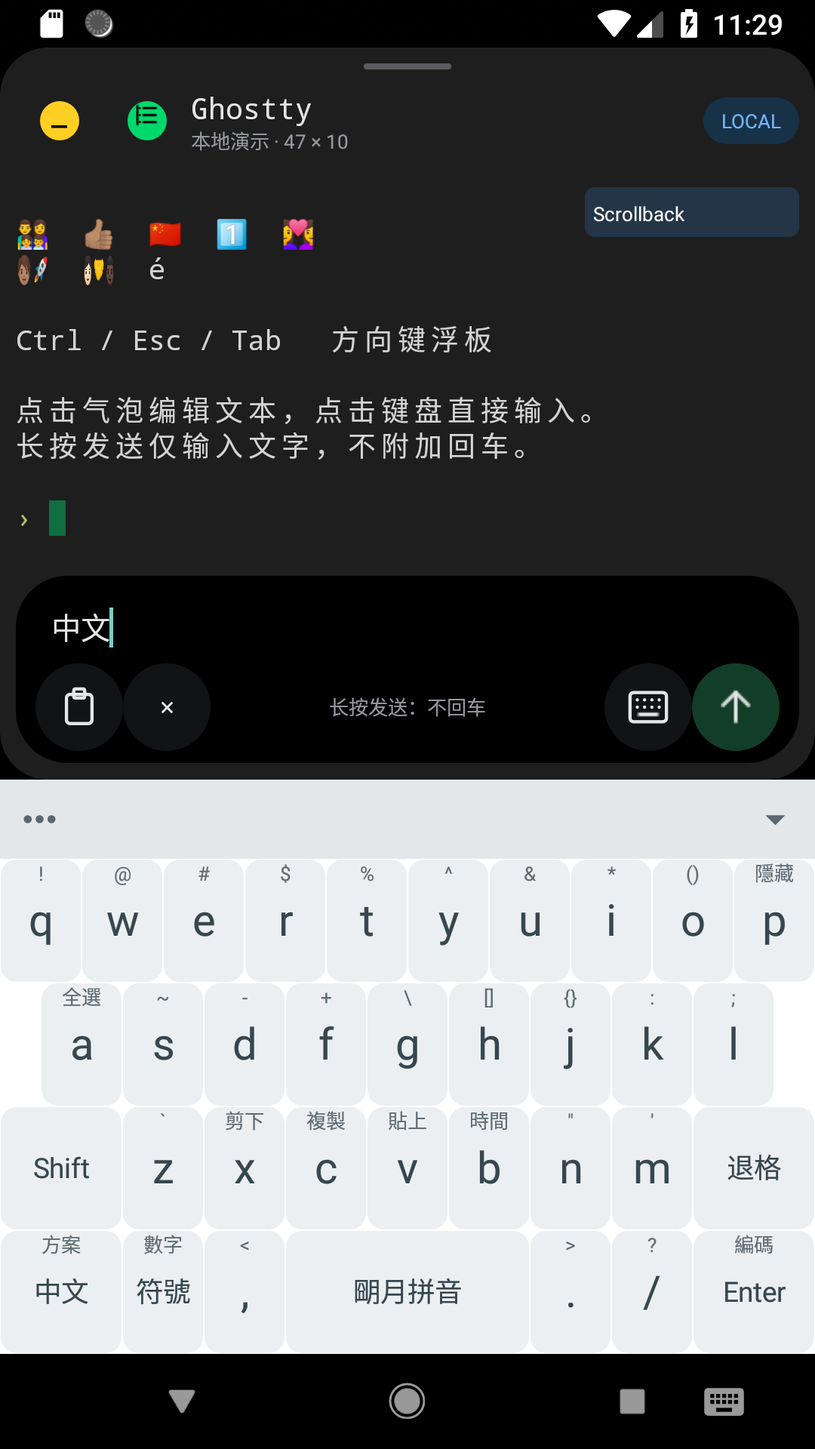
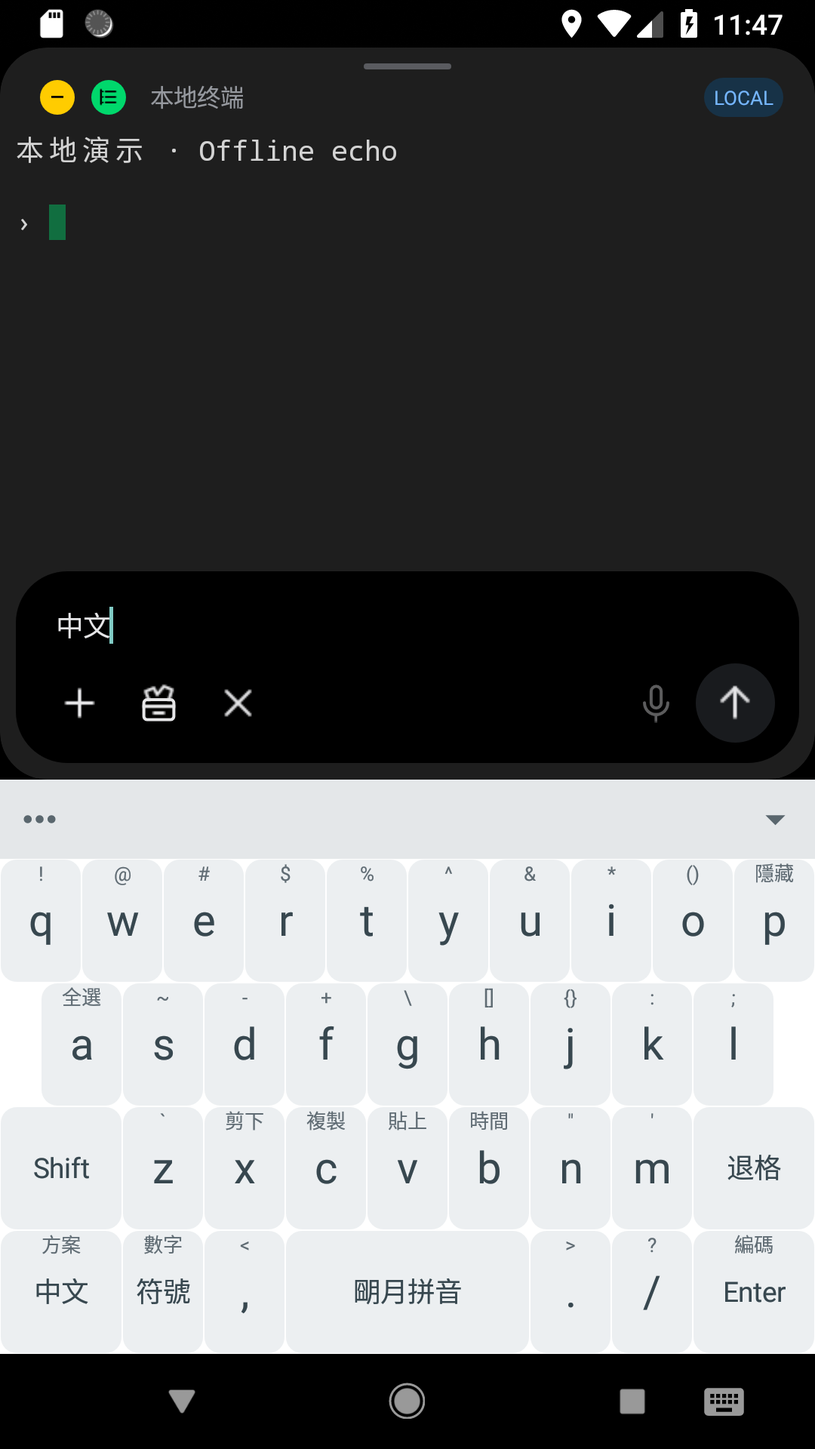
ui: align terminal controls and session layout with Moshi

diff --git a/sample/src/main/java/dev/ghostty/android/sample/MainActivity.java b/sample/src/main/java/dev/ghostty/android/sample/MainActivity.java
@@ -31,7 +31,9 @@ public final class MainActivity extends Activity {
     private ScrollView home;
     private ImageView sessionPreview;
     private android.graphics.Bitmap previewBitmap;
-    private TextView subtitle, ctrlButton, padButton, lockButton;
+    private TextView subtitle, ctrlButton, padButton, lockButton, sendButton;
+    private final java.util.ArrayList<String> draftHistory=new java.util.ArrayList<>();
+    private boolean padPositioned;
     private boolean ctrlArmed, draftMode, imeVisible, minimized, padLocked;
 
     @Override public void onCreate(Bundle state) {
@@ -62,7 +64,8 @@ public final class MainActivity extends Activity {
         terminal.setListener(new TerminalView.Listener() {
             @Override public void onInput(byte[] bytes) { echo(bytes); }
             @Override public void onResize(int columns,int rows) {
-                subtitle.setText("本地演示 · "+columns+" × "+rows);
+                subtitle.setContentDescription("本地终端，"+columns+" 列，"+rows+" 行");
+                if(directInput.hasFocus()||draft.hasFocus())terminal.post(terminal::scrollToBottom);
             }
             @Override public void onSelectionChanged(String text) {
                 selectionBar.setVisibility(text.isEmpty()?View.GONE:View.VISIBLE);
@@ -76,39 +79,38 @@ public final class MainActivity extends Activity {
             imeVisible=root.getRootView().getHeight()-visible.bottom>dp(120);
         });
         viewport.addOnLayoutChangeListener((v,l,t,r,b,ol,ot,or,ob)->clampPad());
-        demo(); root.requestFocus();
+        write("\033]10;#d4d4d4\007\033]11;#1e1e1e\007\033]12;#00d86c\007本地演示 · Offline echo\r\n\r\n› "); root.requestFocus();
     }
 
     private void buildHeader() {
         View grip=new View(this); grip.setBackground(round(0xff5a5b60,3));
         LinearLayout.LayoutParams gripParams=new LinearLayout.LayoutParams(dp(44),dp(3));
         gripParams.gravity=Gravity.CENTER_HORIZONTAL;gripParams.topMargin=dp(8);sheet.addView(grip,gripParams);
-        LinearLayout header=row(); header.setPadding(dp(8),0,dp(8),0);
-        sheet.addView(header,new LinearLayout.LayoutParams(-1,dp(52)));
+        LinearLayout header=row(); header.setPadding(dp(16),0,dp(16),0);
+        sheet.addView(header,new LinearLayout.LayoutParams(-1,dp(28)));
         TextView minimize=key("−","最小化会话",this::minimize); minimize.setTextColor(Color.BLACK);
-        minimize.setTextSize(18);
-        minimize.setBackground(new android.graphics.drawable.InsetDrawable(round(0xffffcf24,12),dp(12)));
-        header.addView(minimize,new LinearLayout.LayoutParams(dp(44),dp(44)));
+        minimize.setTextSize(14);
+        minimize.setBackground(new android.graphics.drawable.InsetDrawable(round(0xffffcc00,9),dp(4)));
+        header.addView(minimize,new LinearLayout.LayoutParams(dp(26),dp(26)));
         TextView menu=icon("panel","会话工具",()->tools(header));
-        menu.setCompoundDrawablesWithIntrinsicBounds(null,new ToolbarIcon("panel",dp(14),Color.BLACK),null,null);
-        menu.setPadding(0,dp(15),0,0);
-        menu.setBackground(new android.graphics.drawable.InsetDrawable(round(GREEN,12),dp(12)));
-        header.addView(menu,new LinearLayout.LayoutParams(dp(44),dp(44)));
-        LinearLayout title=column(); title.setGravity(Gravity.CENTER_VERTICAL);
-        TextView name=label("Ghostty",15,TEXT); name.setTypeface(Typeface.MONOSPACE);
-        subtitle=label("本地演示",10,MUTED); title.addView(name); title.addView(subtitle);
-        header.addView(title,new LinearLayout.LayoutParams(0,-1,1));
-        TextView badge=label("LOCAL",10,0xff75b6ff);badge.setPadding(dp(9),dp(5),dp(9),dp(5));
-        badge.setBackground(round(0xff173247,12)); header.addView(badge);
+        ((ControlLabel)menu).setIcon(new ToolbarIcon("panel",dp(11),Color.BLACK));
+        menu.setBackground(new android.graphics.drawable.InsetDrawable(round(GREEN,9),dp(4)));
+        header.addView(menu,new LinearLayout.LayoutParams(dp(26),dp(26)));
+        subtitle=label("本地终端",12,MUTED);subtitle.setTypeface(Typeface.MONOSPACE);
+        subtitle.setSingleLine();subtitle.setEllipsize(TextUtils.TruncateAt.END);
+        subtitle.setPadding(dp(8),0,dp(8),0);
+        header.addView(subtitle,new LinearLayout.LayoutParams(0,-2,1));
+        TextView badge=label("LOCAL",10,0xff75b6ff);badge.setPadding(dp(5),dp(3),dp(5),dp(3));
+        badge.setBackground(round(0xff173247,10)); header.addView(badge);
     }
 
     private void buildToolbar() {
         HorizontalScrollView scroll=new HorizontalScrollView(this);
         scroll.setHorizontalScrollBarEnabled(false);scroll.setFillViewport(true);
-        toolbar=row();toolbar.setPadding(dp(4),dp(6),dp(4),dp(6));
+        toolbar=row();toolbar.setPadding(dp(5),dp(4),dp(5),dp(4));
         scroll.setBackground(round(Color.BLACK,32));scroll.setClipToOutline(true);
-        scroll.addView(toolbar,new HorizontalScrollView.LayoutParams(-1,dp(56)));
-        LinearLayout.LayoutParams outer=new LinearLayout.LayoutParams(-1,dp(56));
+        scroll.addView(toolbar,new HorizontalScrollView.LayoutParams(-1,dp(52)));
+        LinearLayout.LayoutParams outer=new LinearLayout.LayoutParams(-1,dp(52));
         outer.setMargins(dp(8),dp(6),dp(8),dp(8));sheet.addView(scroll,outer);
         scroll.setTag("toolbar");
         ctrlButton=key("Ctrl","Ctrl：点击后组合下一个按键",()->setCtrl(!ctrlArmed));
@@ -118,34 +120,60 @@ public final class MainActivity extends Activity {
         padButton=icon("pad","方向键浮板",this::togglePad);addTool(padButton);
         addTool(icon("panel","会话工具",()->tools(toolbar)));
         addTool(icon("paste","粘贴到草稿",this::paste));
-        addTool(icon("chat","编辑文本",()->setDraftMode(true,true)));
-        addTool(icon("keyboard","显示或隐藏键盘",this::toggleKeyboard));
+        TextView history=icon("history","输入历史",this::history);
+        ((ControlLabel)history).setIcon(new ToolbarIcon("history",dp(13),MUTED));
+        history.setBackgroundColor(Color.TRANSPARENT);toolbar.addView(history,new LinearLayout.LayoutParams(dp(16),dp(44)));
+        TextView chat=icon("chat","编辑文本",()->setDraftMode(true,true));addTool(chat);chat.setBackgroundColor(Color.TRANSPARENT);
+        TextView keyboard=icon("keyboard","显示或隐藏键盘",this::toggleKeyboard);addTool(keyboard);keyboard.setBackgroundColor(Color.TRANSPARENT);
     }
     private void addTool(View view) {
-        view.setMinimumWidth(dp(44));
+        view.setMinimumWidth(dp(40));
+        view.setBackground(new RippleDrawable(ColorStateList.valueOf(0xff35433c),new android.graphics.drawable.InsetDrawable(round(KEY,20),dp(3),dp(4),dp(3),dp(4)),null));
         LinearLayout.LayoutParams p=new LinearLayout.LayoutParams(0,dp(44),1);
         toolbar.addView(view,p);
     }
     private void buildComposer() {
-        composer=column();composer.setPadding(dp(10),dp(6),dp(10),dp(6));
+        composer=column();composer.setPadding(dp(12),dp(8),dp(12),dp(8));
         composer.setBackground(round(Color.BLACK,26));composer.setVisibility(View.GONE);
         LinearLayout.LayoutParams params=new LinearLayout.LayoutParams(-1,-2);
         params.setMargins(dp(8),dp(6),dp(8),dp(8));sheet.addView(composer,params);
         draft=new EditText(this);draft.setTextColor(TEXT);draft.setHintTextColor(MUTED);
-        draft.setTextSize(15);draft.setHint("输入命令或文本…");draft.setBackgroundColor(Color.TRANSPARENT);
+        draft.setTextSize(14);draft.setTypeface(Typeface.MONOSPACE);draft.setHint("对终端说…");draft.setBackgroundColor(Color.TRANSPARENT);
         draft.setInputType(InputType.TYPE_CLASS_TEXT|InputType.TYPE_TEXT_FLAG_MULTI_LINE);
         draft.setImeOptions(android.view.inputmethod.EditorInfo.IME_FLAG_NO_EXTRACT_UI);
         draft.setMinLines(1);draft.setMaxLines(4);draft.setPadding(dp(8),dp(10),dp(8),dp(8));
         draft.setContentDescription("本地文本草稿");composer.addView(draft,new LinearLayout.LayoutParams(-1,-2));
         LinearLayout actions=row();composer.addView(actions,new LinearLayout.LayoutParams(-1,dp(44)));
-        actions.addView(icon("paste","粘贴到草稿",this::paste),new LinearLayout.LayoutParams(dp(44),dp(44)));
-        actions.addView(key("×","关闭文本框，保留草稿",()->setDraftMode(false,true)),new LinearLayout.LayoutParams(dp(44),dp(44)));
-        TextView hint=label("长按发送：不回车",10,MUTED);hint.setGravity(Gravity.CENTER);
-        actions.addView(hint,new LinearLayout.LayoutParams(0,-1,1));
-        actions.addView(icon("keyboard","显示或隐藏键盘",this::toggleKeyboard),new LinearLayout.LayoutParams(dp(44),dp(44)));
-        TextView send=icon("send","发送并回车；长按仅发送",()->sendDraft(true));
-        send.setBackground(round(0xff123d28,22));send.setOnLongClickListener(v->{sendDraft(false);return true;});
-        actions.addView(send,new LinearLayout.LayoutParams(dp(44),dp(44)));
+        TextView add=icon("plus","添加文本",this::addTextMenu);composerAction(actions,add);
+        composerAction(actions,icon("toolbox","终端工具",()->tools(composer)));
+        composerAction(actions,icon("close","关闭文本框，保留草稿",()->setDraftMode(false,true)));
+        actions.addView(new View(this),new LinearLayout.LayoutParams(0,1,1));
+        TextView voice=icon("mic","语音输入（暂未接入）",()->{});voice.setEnabled(false);voice.setAlpha(.4f);composerAction(actions,voice);
+        sendButton=icon("send","发送并回车；长按仅发送",()->sendDraft(true));
+        sendButton.setBackground(round(0xff191b1e,22));sendButton.setEnabled(false);
+        sendButton.setOnLongClickListener(v->{sendDraft(false);return true;});
+        actions.addView(sendButton,new LinearLayout.LayoutParams(dp(40),dp(40)));
+        draft.addTextChangedListener(new android.text.TextWatcher(){
+            public void beforeTextChanged(CharSequence s,int start,int count,int after){}
+            public void onTextChanged(CharSequence s,int start,int before,int count){
+                boolean ready=s.length()>0;sendButton.setEnabled(ready);
+                ((ControlLabel)sendButton).setIcon(new ToolbarIcon("send",dp(22),ready?TEXT:MUTED));
+            }
+            public void afterTextChanged(android.text.Editable e){}
+        });
+    }
+    private void composerAction(LinearLayout actions,TextView button){
+        button.setBackgroundColor(Color.TRANSPARENT);actions.addView(button,new LinearLayout.LayoutParams(dp(40),dp(44)));
+    }
+    private void addTextMenu(){
+        PopupMenu menu=new PopupMenu(this,composer);menu.getMenu().add("粘贴文本").setOnMenuItemClickListener(item->{paste();return true;});
+        menu.getMenu().add("附件（暂未接入）").setEnabled(false);menu.show();
+    }
+    private void history(){
+        PopupMenu menu=new PopupMenu(this,toolbar);
+        if(draftHistory.isEmpty())menu.getMenu().add("暂无输入历史").setEnabled(false);
+        for(String entry:draftHistory)menu.getMenu().add(entry).setOnMenuItemClickListener(item->{setDraftMode(true,true);draft.setText(entry);draft.setSelection(draft.length());return true;});
+        menu.show();
     }
     private void buildSelectionBar() {
         selectionBar=row();selectionBar.setPadding(dp(4),dp(4),dp(4),dp(4));
@@ -157,16 +185,19 @@ public final class MainActivity extends Activity {
     }
     private void buildPad() {
         pad=column();pad.setElevation(dp(10));
-        FrameLayout.LayoutParams p=new FrameLayout.LayoutParams(dp(168),dp(216),Gravity.TOP|Gravity.LEFT);
-        p.leftMargin=dp(80);p.topMargin=dp(100);viewport.addView(pad,p);
-        LinearLayout handle=row();pad.addView(handle,new LinearLayout.LayoutParams(-1,dp(44)));
-        TextView drag=key("━━","拖动方向键浮板",()->{});drag.setTextColor(MUTED);
-        handle.addView(drag,new LinearLayout.LayoutParams(0,-1,1));
+        FrameLayout.LayoutParams p=new FrameLayout.LayoutParams(dp(156),dp(184),Gravity.TOP|Gravity.LEFT);
+        viewport.addView(pad,p);
+        LinearLayout handle=row();pad.addView(handle,new LinearLayout.LayoutParams(-1,dp(28)));
+        TextView drag=icon("grip","拖动方向键浮板",()->{});drag.setTextColor(MUTED);
+        ((ControlLabel)drag).setIcon(new ToolbarIcon("grip",dp(44),MUTED));
+        handle.addView(new View(this),new LinearLayout.LayoutParams(dp(46),1));
+        handle.addView(drag,new LinearLayout.LayoutParams(dp(60),-1));
         lockButton=icon("unlock","锁定方向键位置",()->{
             padLocked=!padLocked;
-            lockButton.setCompoundDrawablesWithIntrinsicBounds(null,new ToolbarIcon(padLocked?"lock":"unlock",dp(22),padLocked?GREEN:MUTED),null,null);
+            ((ControlLabel)lockButton).setIcon(new ToolbarIcon(padLocked?"lock":"unlock",dp(14),padLocked?GREEN:MUTED));
             lockButton.setContentDescription(padLocked?"解锁方向键位置":"锁定方向键位置");
-        });handle.addView(lockButton,new LinearLayout.LayoutParams(dp(44),dp(44)));
+        });((ControlLabel)lockButton).setIcon(new ToolbarIcon("unlock",dp(14),MUTED));
+        handle.addView(lockButton,new LinearLayout.LayoutParams(dp(28),dp(28)));
         drag.setBackgroundColor(Color.TRANSPARENT);lockButton.setBackgroundColor(Color.TRANSPARENT);
         drag.setOnTouchListener(new View.OnTouchListener() {
             float x,y,startX,startY;
@@ -178,22 +209,25 @@ public final class MainActivity extends Activity {
                 return true;
             }
         });
-        padRow(new String[]{"⌫","↑","×"},new String[]{"退格","上","关闭方向键浮板"},new Runnable[]{()->sendKey(TerminalSession.Key.BACKSPACE),()->sendKey(TerminalSession.Key.UP),this::togglePad});
-        padRow(new String[]{"←","↵","→"},new String[]{"左","回车","右"},new Runnable[]{()->sendKey(TerminalSession.Key.LEFT),()->sendKey(TerminalSession.Key.ENTER),()->sendKey(TerminalSession.Key.RIGHT)});
-        padRow(new String[]{"","↓",""},new String[]{"","下",""},new Runnable[]{null,()->sendKey(TerminalSession.Key.DOWN),null});
+        padRow(new String[]{"backspace","up","clear"},new String[]{"退格","上","清屏 Ctrl+L"},new Runnable[]{()->sendKey(TerminalSession.Key.BACKSPACE),()->sendKey(TerminalSession.Key.UP),()->terminal.sendText("\f")});
+        padRow(new String[]{"left","return","right"},new String[]{"左","回车","右"},new Runnable[]{()->sendKey(TerminalSession.Key.LEFT),()->sendKey(TerminalSession.Key.ENTER),()->sendKey(TerminalSession.Key.RIGHT)});
+        padRow(new String[]{"","down",""},new String[]{"","下",""},new Runnable[]{null,()->sendKey(TerminalSession.Key.DOWN),null});
         pad.setVisibility(View.GONE);
     }
     private void padRow(String[] titles,String[] descriptions,Runnable[] actions) {
-        LinearLayout row=row();pad.addView(row,new LinearLayout.LayoutParams(-1,dp(56)));
+        LinearLayout row=row();pad.addView(row,new LinearLayout.LayoutParams(-1,dp(52)));
         for(int i=0;i<3;i++){
-            View view=actions[i]==null?new View(this):key(titles[i],descriptions[i],actions[i]);
-            if(view instanceof TextView)((TextView)view).setTextSize(24);
-            LinearLayout.LayoutParams p=new LinearLayout.LayoutParams(0,dp(52),1);p.setMargins(dp(2),dp(2),dp(2),dp(2));row.addView(view,p);
+            View view=actions[i]==null?new View(this):icon(titles[i],descriptions[i],actions[i]);
+            if(actions[i]!=null)view.setBackground(new RippleDrawable(ColorStateList.valueOf(0xff35433c),round(titles[i].equals("return")||titles[i].equals("clear")||titles[i].equals("backspace")?Color.BLACK:KEY,16),null));
+            LinearLayout.LayoutParams p=new LinearLayout.LayoutParams(0,dp(50),1);p.setMargins(dp(1),dp(1),dp(1),dp(1));row.addView(view,p);
         }
     }
     private void togglePad() {
         boolean show=pad.getVisibility()!=View.VISIBLE;pad.setVisibility(show?View.VISIBLE:View.GONE);
-        padButton.setActivated(show);if(show)pad.post(this::clampPad);
+        padButton.setActivated(show);if(show)pad.post(()->{
+            if(!padPositioned){pad.setX((viewport.getWidth()-pad.getWidth())/2f);pad.setY(viewport.getHeight()*.42f-pad.getHeight()/2f);padPositioned=true;}
+            clampPad();
+        });
     }
     private void clampPad() {
         if(pad==null||viewport.getWidth()==0||pad.getWidth()==0)return;
@@ -201,19 +235,26 @@ public final class MainActivity extends Activity {
         pad.setY(Math.max(0,Math.min(pad.getY(),viewport.getHeight()-pad.getHeight())));
     }
     private void buildHome() {
-        home=new ScrollView(this);LinearLayout content=column();content.setPadding(dp(20),dp(24),dp(20),dp(24));home.addView(content);
-        TextView heading=label("会话",24,TEXT);content.addView(heading);
-        TextView note=label("本地演示 · 未连接远程主机",13,MUTED);note.setPadding(0,dp(8),0,dp(24));content.addView(note);
-        LinearLayout card=column();card.setPadding(dp(18),dp(18),dp(18),dp(18));card.setBackground(round(SURFACE,20));
-        card.setContentDescription("恢复 Ghostty 本地会话");card.setOnClickListener(v->resumeSession());
-        content.addView(card,new LinearLayout.LayoutParams(-1,dp(220)));
-        card.addView(label("Ghostty · LOCAL",14,TEXT));
+        home=new ScrollView(this);LinearLayout content=column();content.setPadding(dp(16),dp(12),dp(16),dp(24));home.addView(content);
+        LinearLayout top=row();top.setGravity(Gravity.RIGHT|Gravity.CENTER_VERTICAL);
+        TextView settings=icon("settings","会话工具",()->tools(top));settings.setBackgroundColor(Color.TRANSPARENT);
+        top.addView(settings,new LinearLayout.LayoutParams(dp(44),dp(44)));content.addView(top,new LinearLayout.LayoutParams(-1,dp(60)));
+        TextView heading=label("会话",13,MUTED);heading.setPadding(0,dp(8),0,dp(12));content.addView(heading);
+        LinearLayout cards=row();cards.setGravity(Gravity.TOP);content.addView(cards);
+        LinearLayout card=column();card.setContentDescription("恢复 Ghostty 本地会话");card.setOnClickListener(v->resumeSession());
+        int width=(getResources().getDisplayMetrics().widthPixels-dp(44))/2;
+        cards.addView(card,new LinearLayout.LayoutParams(width,-2));
+        FrameLayout thumbnail=new FrameLayout(this);thumbnail.setBackground(round(SURFACE,14));thumbnail.setClipToOutline(true);
+        card.addView(thumbnail,new LinearLayout.LayoutParams(-1,width));
         sessionPreview=new ImageView(this);sessionPreview.setScaleType(ImageView.ScaleType.FIT_START);
         sessionPreview.setImportantForAccessibility(View.IMPORTANT_FOR_ACCESSIBILITY_NO);
-        LinearLayout.LayoutParams previewParams=new LinearLayout.LayoutParams(-1,0,1);
-        previewParams.topMargin=dp(16);previewParams.bottomMargin=dp(12);card.addView(sessionPreview,previewParams);
-        card.addView(label("点击继续会话",12,0xffa8d8b1));
-        content.addView(label("最小化保留本次会话；退出应用后重置。",12,MUTED));
+        thumbnail.addView(sessionPreview,new FrameLayout.LayoutParams(-1,-1));
+        LinearLayout caption=row();caption.setPadding(dp(8),dp(6),dp(8),dp(6));caption.setBackgroundColor(0xcc1e1e1e);
+        TextView title=label("本地终端",12,TEXT);caption.addView(title,new LinearLayout.LayoutParams(0,-2,1));
+        TextView badge=label("LOCAL",10,0xff75b6ff);badge.setBackground(round(0xff173247,9));badge.setPadding(dp(4),dp(2),dp(4),dp(2));caption.addView(badge);
+        thumbnail.addView(caption,new FrameLayout.LayoutParams(-1,-2,Gravity.TOP));
+        TextView name=label("Ghostty",15,TEXT);name.setPadding(0,dp(6),0,0);card.addView(name);
+        TextView prompt=label("›_ local",13,GREEN);prompt.setTypeface(Typeface.MONOSPACE);card.addView(prompt);
         stage.addView(home,new FrameLayout.LayoutParams(-1,-1));home.setVisibility(View.GONE);
     }
     private void minimize() {
@@ -254,6 +295,7 @@ public final class MainActivity extends Activity {
     private void sendKey(TerminalSession.Key key){terminal.sendKey(key);}
     private void sendDraft(boolean enter) {
         String text=draft.getText().toString();if(text.isEmpty())return;
+        draftHistory.remove(text);draftHistory.add(0,text);if(draftHistory.size()>20)draftHistory.remove(20);
         // Explicit submission finishes this local draft; it is never sent during composition.
         terminal.sendText(text);if(enter)terminal.sendKey(TerminalSession.Key.ENTER);
         draft.setText("");
@@ -290,6 +332,7 @@ public final class MainActivity extends Activity {
         String text=new String(bytes,StandardCharsets.UTF_8);
         if(ctrlArmed){setCtrl(false);if(text.length()==1&&text.charAt(0)>=64&&text.charAt(0)<128)text=Character.toString((char)(text.charAt(0)&31));}
         if(text.equals("\r")||text.equals("\n")){write("\r\n");return;}
+        if(text.equals("\f")){write("\033[2J\033[H");return;}
         if(text.equals("\u007f")||text.equals("\b")){toast("退格");return;}
         if(text.codePoints().anyMatch(cp->cp<32&&cp!='\n'&&cp!='\t')){
             String display=text.replace("\033","Esc ");
@@ -324,14 +367,27 @@ public final class MainActivity extends Activity {
     private TextView label(String text,int size,int color){TextView v=new TextView(this);v.setText(text);v.setTextSize(size);v.setTextColor(color);return v;}
     private GradientDrawable round(int color,int radius){GradientDrawable d=new GradientDrawable();d.setColor(color);d.setCornerRadius(dp(radius));return d;}
     private TextView key(String title,String description,Runnable action) {
-        TextView v=label(title,14,TEXT);v.setGravity(Gravity.CENTER);v.setTypeface(Typeface.MONOSPACE);
+        TextView v=new ControlLabel();v.setText(title);v.setTextSize(14);v.setTextColor(TEXT);v.setGravity(Gravity.CENTER);v.setTypeface(Typeface.MONOSPACE);
         v.setSingleLine();v.setEllipsize(TextUtils.TruncateAt.END);v.setContentDescription(description);
         v.setFocusable(true);v.setBackground(new RippleDrawable(ColorStateList.valueOf(0xff35433c),round(KEY,22),null));
         v.setOnClickListener(w->action.run());return v;
     }
     private TextView icon(String name,String description,Runnable action) {
-        TextView v=key("",description,action);v.setCompoundDrawablesWithIntrinsicBounds(null,new ToolbarIcon(name,dp(22),TEXT),null,null);
-        v.setPadding(0,dp(11),0,0);return v;
+        TextView v=key("",description,action);((ControlLabel)v).setIcon(new ToolbarIcon(name,dp(20),TEXT));
+        return v;
+    }
+    /** Center icons independently of font ascent/descent, including the small header buttons. */
+    private final class ControlLabel extends TextView {
+        private ToolbarIcon symbol;
+        ControlLabel(){super(MainActivity.this);setIncludeFontPadding(false);}
+        void setIcon(ToolbarIcon icon){symbol=icon;invalidate();}
+        @Override protected void onDraw(android.graphics.Canvas canvas){
+            android.graphics.drawable.Drawable icon=symbol;
+            if(icon==null){super.onDraw(canvas);return;}
+            int w=icon.getIntrinsicWidth(),h=icon.getIntrinsicHeight();
+            canvas.save();canvas.translate(getScrollX(),getScrollY());
+            icon.setBounds((getWidth()-w)/2,(getHeight()-h)/2,(getWidth()+w)/2,(getHeight()+h)/2);icon.draw(canvas);canvas.restore();
+        }
     }
     @Override protected void onDestroy(){
         directInput.setTerminalView(null);terminal.setListener(null);terminal.setSession(null);session.close();

diff --git a/sample/src/main/java/dev/ghostty/android/sample/ToolbarIcon.java b/sample/src/main/java/dev/ghostty/android/sample/ToolbarIcon.java
@@ -24,6 +24,28 @@ final class ToolbarIcon extends Drawable {
             case "keyboard":
                 c.drawRoundRect(2,4,22,20,2,2,p);for(int y=8;y<=12;y+=4)for(int x=6;x<=18;x+=4)c.drawPoint(x,y,p);line(c,7,16,17,16);break;
             case "send":line(c,12,20,12,4);line(c,5,11,12,4,19,11);break;
+            case "plus":line(c,12,4,12,20);line(c,4,12,20,12);break;
+            case "close":line(c,5,5,19,19);line(c,19,5,5,19);break;
+            case "mic":
+                c.drawRoundRect(9,2,15,15,3,3,p);c.drawArc(5,5,19,19,0,180,false,p);line(c,12,19,12,23);break;
+            case "toolbox":
+                c.drawRoundRect(3,10,21,22,2,2,p);line(c,3,14,21,14);line(c,9,18,15,18);
+                line(c,6,10,4,5,9,3,11,7,15,2,20,4,18,10);break;
+            case "history":c.drawArc(4,4,21,21,220,300,false,p);line(c,3,4,3,9,8,9);line(c,12,7,12,13,16,15);break;
+            case "up":line(c,7,14,12,9,17,14);break;
+            case "down":line(c,7,10,12,15,17,10);break;
+            case "left":line(c,14,7,9,12,14,17);break;
+            case "right":line(c,10,7,15,12,10,17);break;
+            case "return":line(c,20,5,20,10,18,14,5,14);line(c,10,9,5,14,10,19);break;
+            case "backspace":line(c,9,5,21,5,21,19,9,19,2,12,9,5);line(c,12,9,17,15);line(c,17,9,12,15);break;
+            case "clear":
+                line(c,10,11,10,3,14,3,14,11,19,13,21,21,3,21,5,13,10,11);
+                line(c,8,16,7,21);line(c,12,15,12,21);line(c,16,16,17,21);break;
+            case "grip":
+                float old=p.getStrokeWidth();p.setStrokeWidth(1.3f);line(c,1,12,23,12);p.setStrokeWidth(old);break;
+            case "settings":
+                c.drawCircle(12,12,3,p);c.drawCircle(12,12,8,p);
+                for(int i=0;i<8;i++){c.save();c.rotate(i*45,12,12);line(c,12,2,12,4);c.restore();}break;
             case "lock":
             case "unlock":
                 c.drawRoundRect(5,10,19,21,2,2,p);c.drawPoint(12,15,p);
@@ -31,7 +53,8 @@ final class ToolbarIcon extends Drawable {
                 if(name.equals("lock"))line(c,16,7,16,10);
                 break;
             case "pad":
-                line(c,9,6,12,3,15,6);line(c,18,9,21,12,18,15);line(c,15,18,12,21,9,18);line(c,6,15,3,12,6,9);break;
+                c.drawRoundRect(10,2,14,8,1,1,p);c.drawRoundRect(16,10,22,14,1,1,p);
+                c.drawRoundRect(10,16,14,22,1,1,p);c.drawRoundRect(2,10,8,14,1,1,p);break;
             default:break;
         }c.restore();
     }

diff --git a/terminal/src/main/java/dev/ghostty/android/TerminalView.java b/terminal/src/main/java/dev/ghostty/android/TerminalView.java
@@ -240,7 +240,6 @@ public final class TerminalView extends FrameLayout {
         }
         @Override protected void onDraw(Canvas c){
             if(frame==null)return;
-            if(offset()+rows<frame.optInt("total")){overlay.setColor(0xcc253b52);c.drawRoundRect(getWidth()-dp(108),dp(3),getWidth(),dp(28),dp(5),dp(5),overlay);overlay.setColor(Color.WHITE);overlay.setTextSize(dp(10));c.drawText("Scrollback",getWidth()-dp(104),dp(20),overlay);}
             if(!selecting)return;
             int lo=normalize(Math.min(start,end),false),hi=normalize(Math.max(start,end),true);
             overlay.setColor(0x665b9cff);

diff --git a/docs/VALIDATION.md b/docs/VALIDATION.md
@@ -4,17 +4,17 @@ The library is an extracted alpha, not a shipped package. Validation results bel
 
 ## Moshi-inspired sample UI
 
-Updated on 2026-10-20 after inspecting the installed Moshi Android app. The sample now uses a dark rounded terminal sheet, bottom shortcut capsule, draggable/lockable direction pad, draft/direct input switching, selection copy controls and a minimizable local session card with a viewport preview. The sample code and line icons are implemented here; no Moshi source or bundled assets are included. The library remains transport-independent.
+Updated on 2026-10-20 after inspecting the installed Moshi Android app. A subsequent visual alignment pass matches its compact single-line header, yellow/green header controls, shortcut spacing, rounded-square direction keys with Backspace/Ctrl+L, composer action order and half-width session thumbnails. The sample keeps a LOCAL badge and its own identity. Empty drafts disable Send; the small history button restores one of the last 20 submitted drafts held only in RAM. Voice and attachment entries are visibly unavailable until a host implements them. Opening input after resize returns the local sample to the prompt; the renderer no longer paints a debug Scrollback badge. The sample now uses a dark rounded terminal sheet, bottom shortcut capsule, draggable/lockable direction pad, draft/direct input switching, selection copy controls and a minimizable local session card with a viewport preview. The sample code and line icons are implemented here; no Moshi source or bundled assets are included. The library remains transport-independent.
 
 - API 27 ARM64 emulator: **10/10 instrumentation tests pass**, including the new selection callback test (gesture selects text, output clears it, redundant clears do not emit duplicate callbacks). [JUnit XML](evidence/moshi-ui/tests.xml).
 - Actual Trime Pinyin key taps produced “中文” in the local draft; the terminal changed only after Send. Direct-input Pinyin confirmation also echoed “中文” once. Long-press Send inserted copied “滚” without a newline, while normal Send appended Return. Keyboard show/hide resized the terminal and kept the controls visible.
-- Manual gestures on API 27 verified direction-pad movement, locked position, selecting/copying “滚”, pasting it into the draft, and minimizing/resuming with the draft preserved. Selection dragging/edge scrolling remain covered by the instrumentation suite.
+- Manual gestures on API 27 verified direction-pad movement, locked position, selecting/copying Chinese text, pasting it into the draft, and minimizing/resuming with the draft preserved. The aligned UI was also checked for Pinyin draft submission, history recall, long-press Send without Return and the disabled empty-draft Send state. Selection dragging/edge scrolling remain covered by the instrumentation suite.
 - Installed the updated debug sample on the API 36 phone and inspected the initial toolbar layout. The detailed interaction checks and screenshots in this section are from the API 27 emulator.
 - Release AAR, sample debug/R8 release and separate R8 Maven Local consumer compile successfully. Lint: library 0 errors / 6 warnings, sample 0 errors / 8 warnings. No remote Maven publication.
 
 Screenshots: [terminal](evidence/moshi-ui/api27-terminal.png), [direction pad](evidence/moshi-ui/api27-pad.png), [Chinese draft](evidence/moshi-ui/api27-composer.png), [direct input](evidence/moshi-ui/api27-direct-input.png), [selection](evidence/moshi-ui/api27-selection.png), [session card](evidence/moshi-ui/api27-session.png). [Build hashes and scope](evidence/moshi-ui/validation.json).
 
-This is an offline interaction sample. Special/control keys show local feedback rather than controlling a real shell. It has one in-memory session; Activity/process recreation resets it. SSH, authentication, reconnect, attachments, voice, remote session management and Moshi's wider settings/gesture system are not implemented. Hosted CI remains build-only for the emulator limitation described below.
+This is an offline interaction sample. Special/control keys show local feedback rather than controlling a real shell; Ctrl+L clears the local viewport. It has one in-memory session; Activity/process recreation resets it. SSH, authentication, reconnect, attachments, voice, remote session management and Moshi's wider settings/gesture system are not implemented. Hosted CI remains build-only for the emulator limitation described below.
 
 ## Android 8.1 emulator acceptance and grapheme fix
 

diff --git a/README.md b/README.md
@@ -24,7 +24,7 @@ Android **8.1+ (API 27) / arm64-v8a only**, Java 17. Runtime regression covers a
 
 ## Sample UI
 
-The offline sample follows Moshi’s mobile terminal layout: a dark rounded session sheet, a compact Ctrl/Esc/Tab toolbar, a draggable/lockable direction pad, direct IME input and a separate text draft. Tap Send to append Return; long-press Send for text only. Paste opens the local draft, and long-press selection exposes Copy. Minimize opens a local session card with a viewport preview; resume retains the same in-memory session and draft. Control keys display feedback in this echo demo; there is no remote shell or process to execute them. UI components live in `sample`, separate from the embeddable terminal library.
+The offline sample follows Moshi’s mobile terminal layout: a dark rounded session sheet, a compact Ctrl/Esc/Tab toolbar, a draggable/lockable direction pad, direct IME input and a separate text draft. Tap Send to append Return; long-press Send for text only. Paste opens the local draft, and long-press selection exposes Copy. The history button restores recent drafts from RAM. Voice and attachment entries are disabled in this prototype. Minimize opens a half-width local session card with a viewport preview; resume retains the same in-memory session and draft. Control keys display feedback in this echo demo; there is no remote shell or process to execute them. UI components live in `sample`, separate from the embeddable terminal library.
 
 [UI screenshots and validation](docs/VALIDATION.md#moshi-inspired-sample-ui)
 
